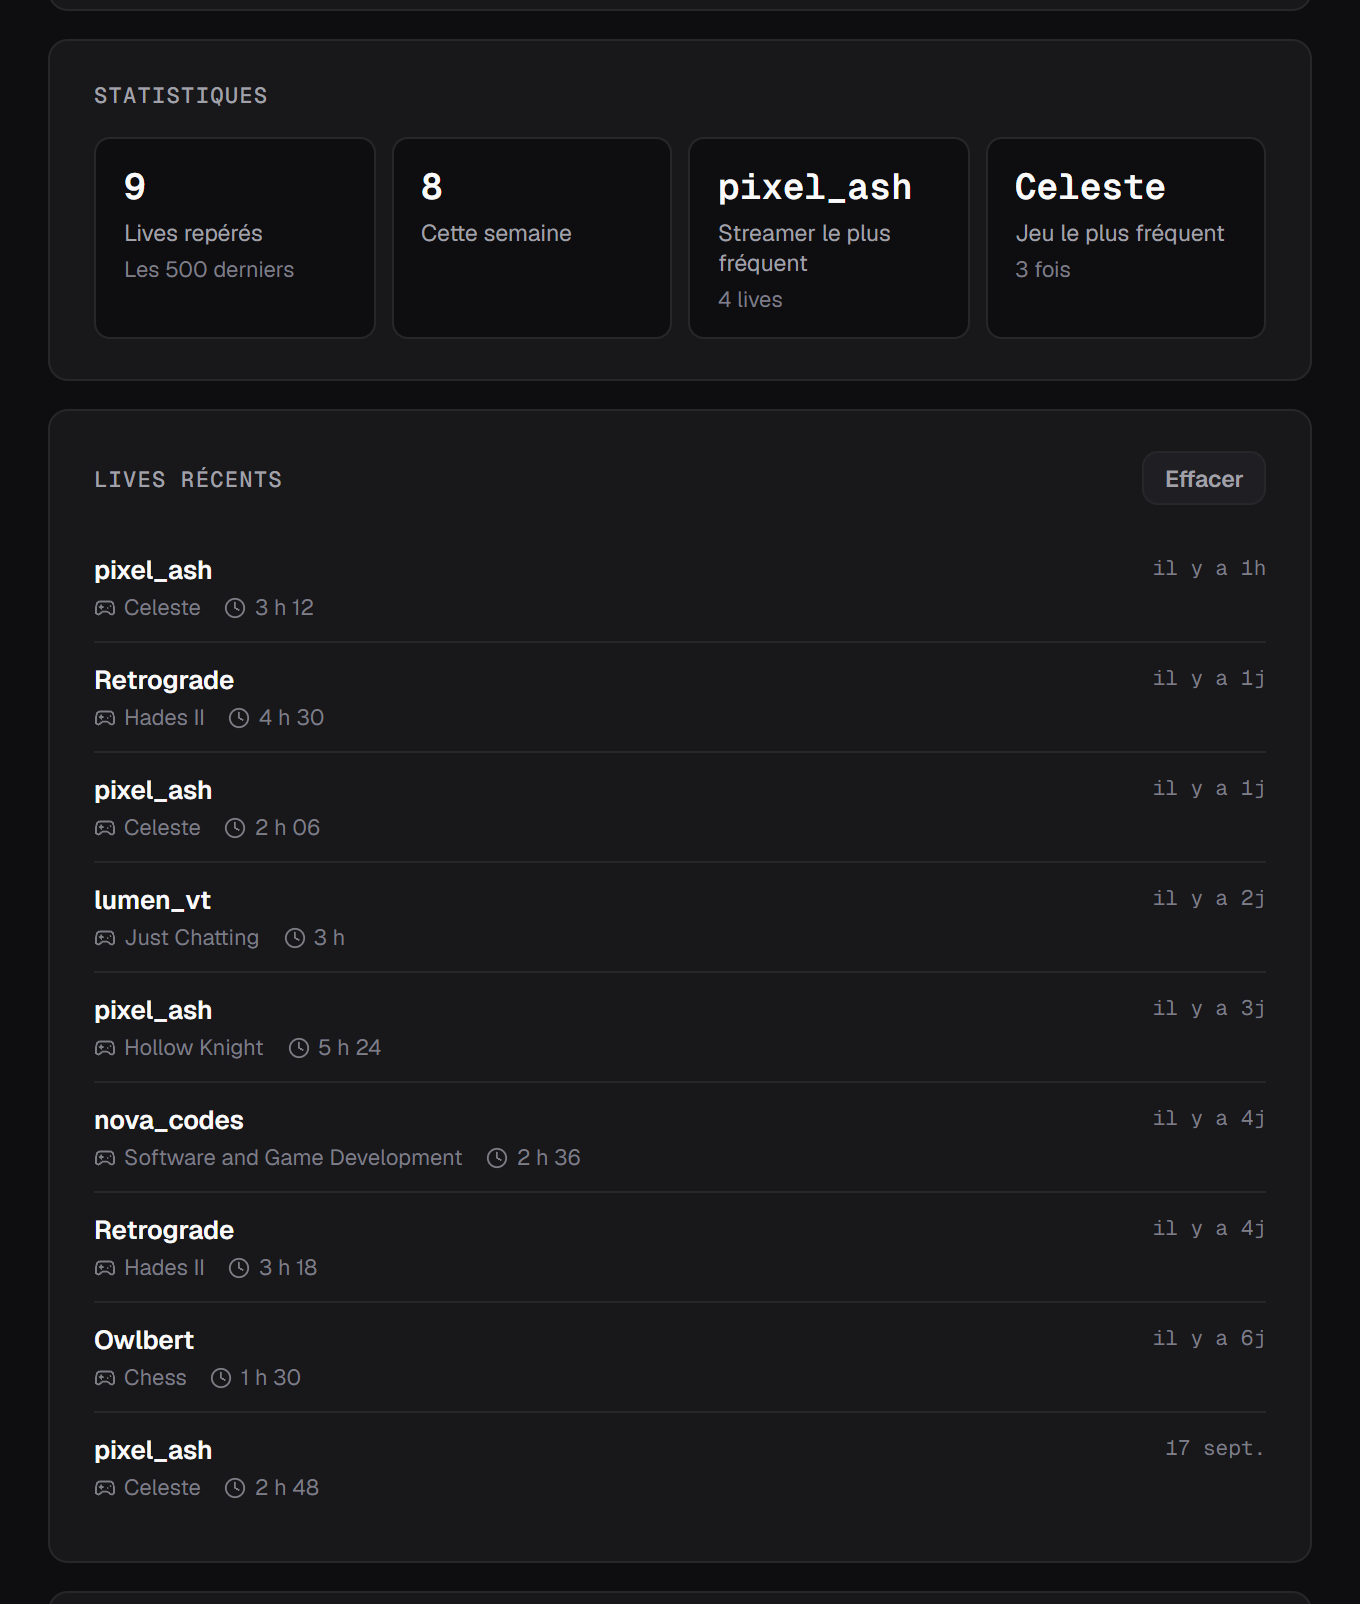
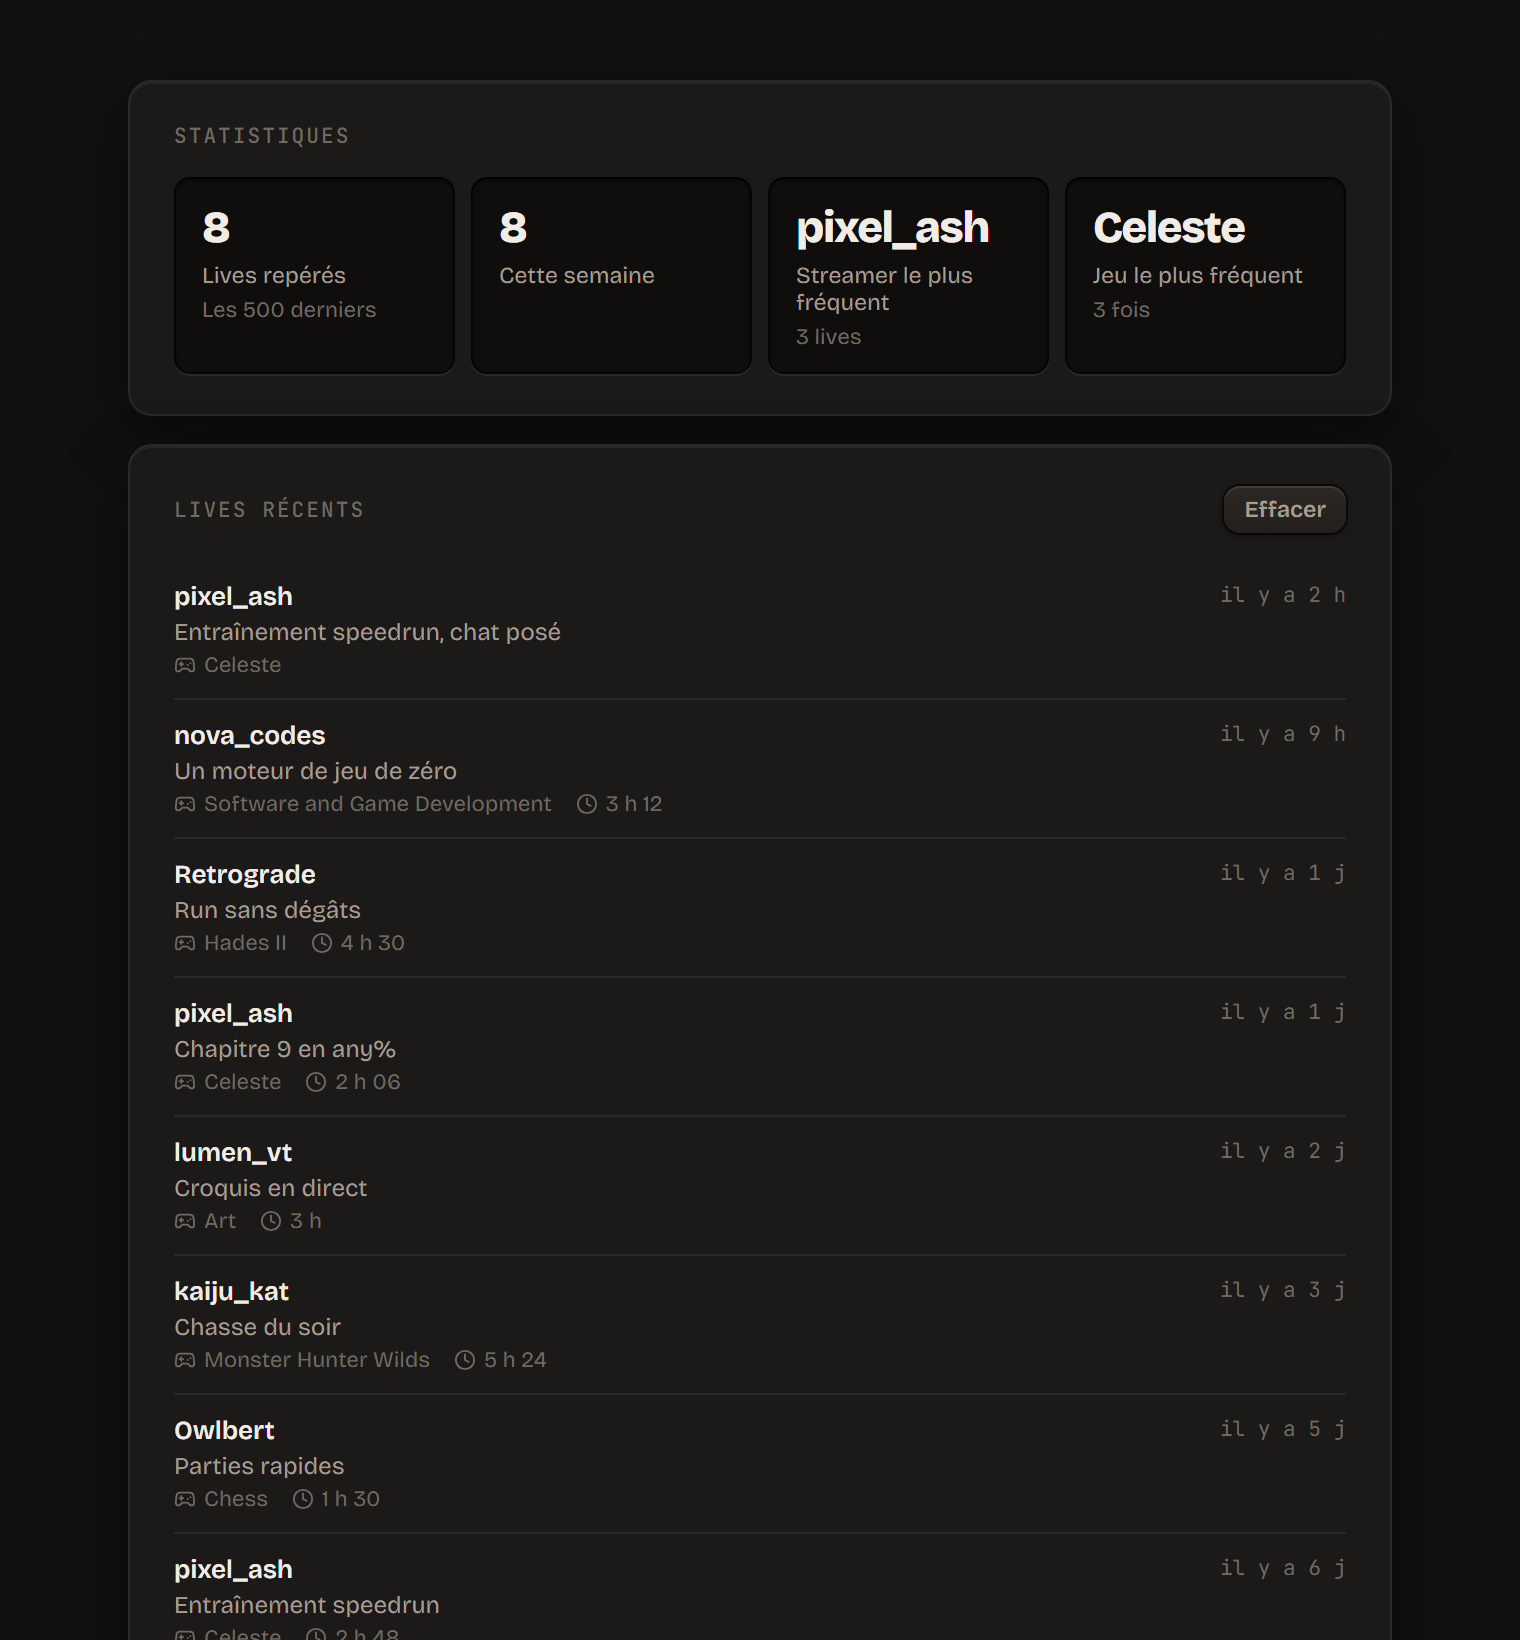
📝 docs: refresh the README for the new design and themes

diff --git a/README.md b/README.md
@@ -6,12 +6,12 @@
 
 Une notification sur ton bureau dès qu'un de tes streamers Twitch lance son live.
 
-[![Chrome Web Store](https://img.shields.io/badge/chrome%20web%20store-installer-fcd34d?style=for-the-badge&logo=googlechrome&logoColor=0e0e10)](https://chromewebstore.google.com/detail/nowtify/emjhkfephckipmmlecbkmpjphfjalkhg)
+[![Chrome Web Store](https://img.shields.io/badge/chrome%20web%20store-installer-e4572e?style=for-the-badge&logo=googlechrome&logoColor=ffffff)](https://chromewebstore.google.com/detail/nowtify/emjhkfephckipmmlecbkmpjphfjalkhg)
 [![Version](https://img.shields.io/github/v/release/qyrn/nowtify?label=version&color=27272a&style=for-the-badge)](../../releases/latest)
 
 <br />
 
-<img src="docs/popup.png" width="360" alt="La popup de Nowtify avec deux streamers en live et l'aperçu d'un stream" />
+<img src="docs/popup.png" width="360" alt="La popup de Nowtify avec trois streamers en live et l'aperçu d'un stream" />
 
 </div>
 
@@ -23,15 +23,15 @@ Pas de compte à créer, pas de serveur entre toi et Twitch. Tout reste dans ton
 
 ## 👀 Ce qu'il y a dedans
 
-Clique sur l'icône et tu as ta liste. Ceux qui sont en live remontent en haut avec leur nombre de viewers, les autres affichent depuis combien de temps ils ont coupé leur dernier live. Le petit chiffre sur l'icône, c'est le nombre de streamers en live en ce moment.
+Clique sur l'icône et tu as ta liste. Ceux qui sont en live sont regroupés en haut avec leur nombre de viewers, les autres affichent depuis combien de temps ils ont coupé leur dernier live. Le petit chiffre sur l'icône, c'est le nombre de streamers en live en ce moment.
 
-Clique sur une carte pour ouvrir le stream. La petite flèche à côté du statut déplie un aperçu : la miniature du live, le jeu et les viewers.
+Clique sur un streamer pour ouvrir son live. Au survol, trois boutons apparaissent : la flèche déplie un aperçu (la miniature, depuis combien de temps le live tourne et le nombre exact de viewers), la cloche barrée met ses notifs en pause, la croix le retire de ta liste.
 
 Si un streamer hors ligne a rempli son planning Twitch, son prochain live s'affiche sous son nom.
 
 ## 👥 Des teams entières
 
-Tape `team/` suivi du nom d'une team Twitch (par exemple `team/solary`) et tous ses membres arrivent d'un coup. Un filtre apparaît ensuite en haut de la liste pour n'afficher qu'une team.
+Tape `team/` suivi du nom d'une team Twitch (par exemple `team/solary`) et tous ses membres arrivent d'un coup, avec le logo de la team à côté de leur nom. Un filtre apparaît ensuite en haut de la liste pour n'afficher qu'une team.
 
 Tu peux aussi coller un lien, `twitch.tv/zerator` ou `twitch.tv/team/solary`, ça marche pareil.
 
@@ -40,12 +40,14 @@ Tu peux aussi coller un lien, `twitch.tv/zerator` ou `twitch.tv/team/solary`, ç
 <div align="center">
 <img src="docs/snooze.png" width="300" alt="Le menu de pause sur un streamer : pendant 1 heure ou jusqu'à demain matin" />
 &nbsp;&nbsp;
-<img src="docs/compact.png" width="300" alt="La vue compacte en grille de trois colonnes" />
+<img src="docs/light.png" width="300" alt="La popup de Nowtify en thème clair" />
 </div>
 
-Quelqu'un lance trois lives par jour et tu n'as pas envie d'être prévenu à chaque fois ? Passe la souris sur sa carte, clique sur la cloche barrée, et coupe ses notifs pendant une heure ou jusqu'à demain matin. Il reste dans ta liste, avec une petite cloche jaune pour te rappeler qu'il est en pause.
+Quelqu'un lance trois lives par jour et tu n'as pas envie d'être prévenu à chaque fois ? Passe la souris sur lui, clique sur la cloche barrée, et coupe ses notifs pendant une heure ou jusqu'à demain matin. Il reste dans ta liste, avec une petite cloche barrée à côté de son nom pour te rappeler qu'il est en pause.
 
-Quand la liste s'allonge, le bouton en forme de grille passe en vue compacte : trois streamers par ligne, juste l'avatar, le nom et le statut.
+## 🌗 Clair ou sombre
+
+Nowtify suit le thème de Chrome. Si tu préfères l'un ou l'autre, tu peux le forcer dans les réglages.
 
 ## 📊 L'historique
 
@@ -88,7 +90,7 @@ Twitch a invalidé le token, ça arrive au bout d'un moment ou si tu changes ton
 <details>
 <summary><b>Aucune notification n'apparaît</b></summary>
 <br />
-Vérifie dans l'ordre : que les notifications sont activées dans les réglages de Nowtify, que le streamer n'est pas en pause (cloche jaune à côté de son nom), et que Windows ou macOS laisse Chrome afficher des notifications. Sur Windows, le mode Ne pas déranger les bloque toutes.
+Vérifie dans l'ordre : que les notifications sont activées dans les réglages de Nowtify, que le streamer n'est pas en pause (cloche barrée à côté de son nom), et que Windows ou macOS laisse Chrome afficher des notifications. Sur Windows, le mode Ne pas déranger les bloque toutes.
 </details>
 
 <details>
@@ -120,6 +122,7 @@ pnpm lint
 pnpm test
 pnpm build        # compile l'extension dans .output/chrome-mv3
 pnpm zip          # génère .output/nowtify-x.y.z-chrome.zip
+pnpm icons        # régénère les icônes PNG depuis branding/logo.svg
 ```
 
 Pour la charger dans ton Chrome habituel : `pnpm build`, puis dans `chrome://extensions`, « Charger l'extension non empaquetée » sur le dossier `.output/chrome-mv3`. La racine du dépôt ne contient pas de `manifest.json`, WXT le génère au build.
